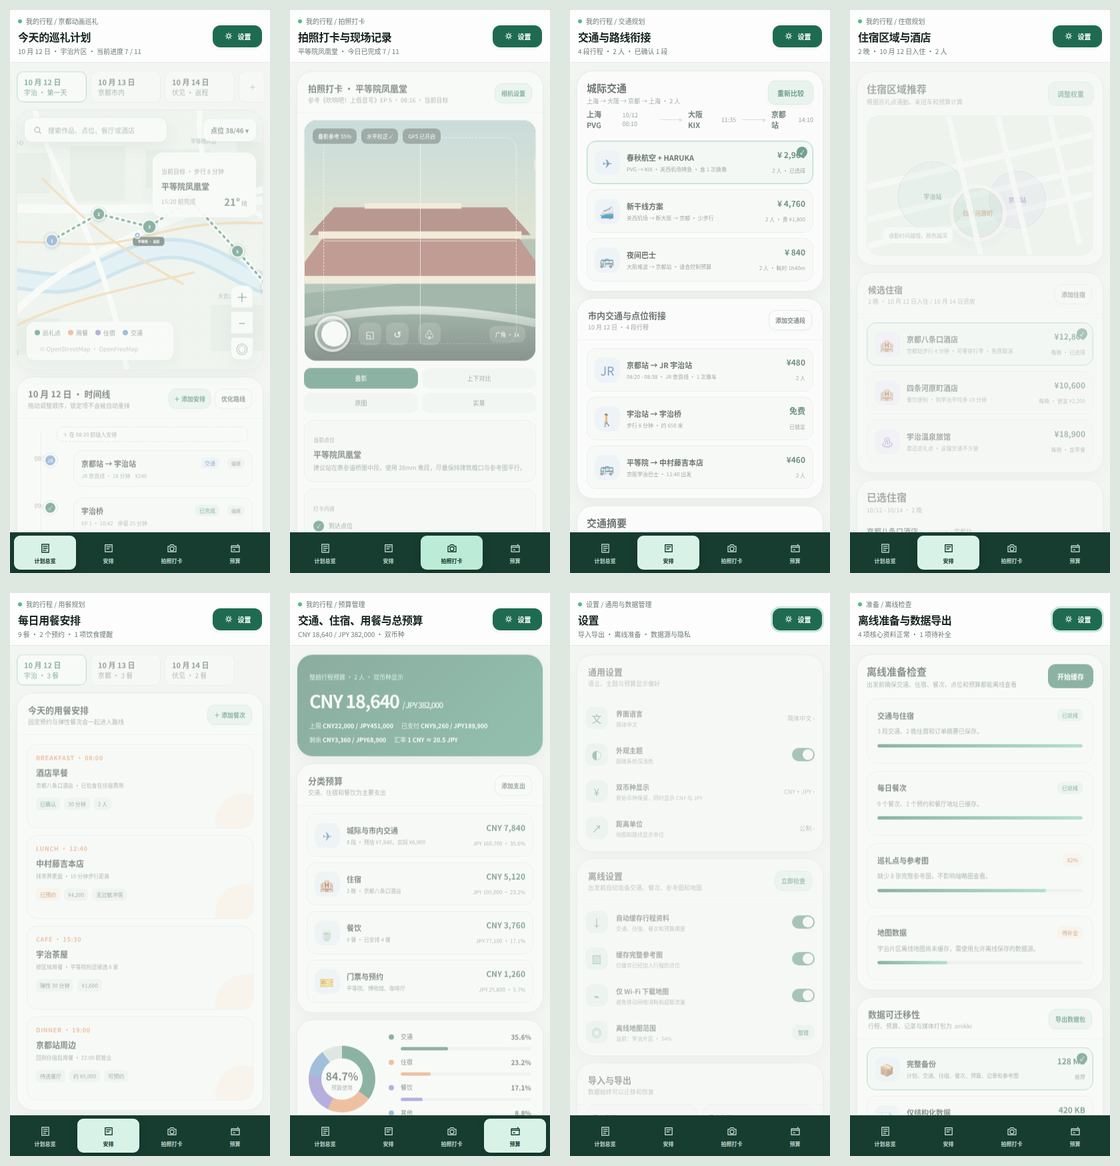
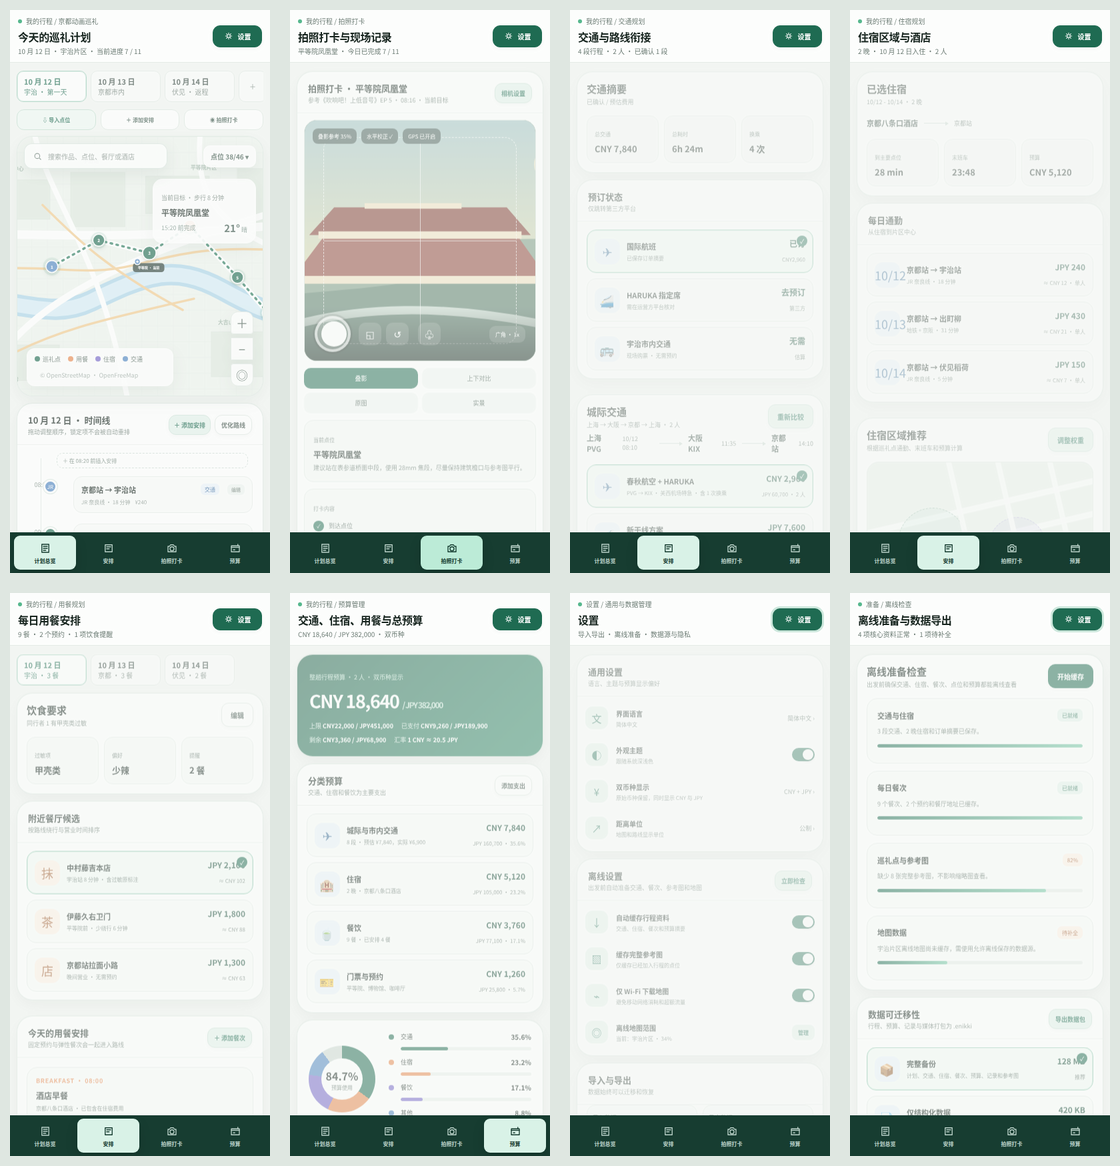
design: align mobile and desktop feature parity

diff --git a/design/enikki-ui.html b/design/enikki-ui.html
@@ -127,6 +127,11 @@ button,input{font:inherit}button{border:0;cursor:pointer}svg{display:block}
 .card-head-actions{display:flex;gap:6px;margin-left:auto}.timeline-insert{position:relative;z-index:3;width:calc(100% - 60px);margin:4px 0 4px 50px;padding:5px 8px;border:1px dashed #cbdad3;border-radius:9px;color:#6f8279;background:rgba(255,255,255,.7);font-size:8px;text-align:left}.timeline-insert:hover{color:var(--green);border-color:#8fc7b1;background:#f2faf6}.event-edit{margin-left:5px;padding:3px 6px;border-radius:6px;color:#61736a;background:#eef3f0;font-size:7px}.event-edit:hover{color:#fff;background:var(--green)}.plan-editor-backdrop{position:fixed;inset:0;z-index:70;display:none;place-items:center;padding:20px;background:rgba(18,37,30,.36);backdrop-filter:blur(5px)}.plan-editor-backdrop.open{display:grid}.plan-editor{width:min(690px,calc(100vw - 40px));max-height:min(760px,calc(100vh - 40px));overflow:auto;border-radius:24px;background:#fff;box-shadow:0 30px 80px rgba(14,35,27,.28)}.plan-editor-head{display:flex;align-items:center;gap:12px;padding:17px 18px;border-bottom:1px solid #e8eeea}.plan-editor-head h3{margin:0;font-size:16px}.plan-editor-head p{margin:3px 0 0;color:var(--muted);font-size:9px}.plan-editor-close{margin-left:auto;width:32px;height:32px;border-radius:10px;color:#62756c;background:#f0f4f2;font-size:17px}.plan-type-grid{display:grid;grid-template-columns:repeat(6,1fr);gap:7px;padding:14px 16px 8px}.plan-type{display:flex;flex-direction:column;align-items:center;gap:6px;padding:10px 5px;border:1px solid #e4ebe7;border-radius:13px;color:#52675d;background:#fafcfb;font-size:8px}.plan-type i{font-size:17px;font-style:normal}.plan-type.active{border-color:#8fc7b1;color:var(--green);background:#edf8f3;box-shadow:inset 0 0 0 1px #d2e9df}.plan-form{display:grid;grid-template-columns:1fr 1fr;gap:11px;padding:12px 16px 18px}.field{display:grid;gap:5px}.field.full{grid-column:1/-1}.field label{color:#42574d;font-size:9px;font-weight:750}.field input,.field select,.field textarea{width:100%;border:1px solid #dce6e1;border-radius:11px;padding:10px;color:var(--ink);background:#fbfcfb;font-size:10px;outline:none}.field input:focus,.field select:focus,.field textarea:focus{border-color:#80bea4;box-shadow:0 0 0 3px #e4f2ec}.field textarea{min-height:68px;resize:vertical}.money-fields{display:grid;grid-template-columns:1fr 1fr;gap:8px}.editor-foot{display:flex;align-items:center;gap:8px;padding:13px 16px;border-top:1px solid #e8eeea;background:#fafcfb}.editor-foot .danger{margin-right:auto;color:#b04e43;background:#fff0ed}.plan-editor-note{padding:0 16px 12px;color:var(--muted);font-size:8px}
 @media(max-width:760px){.plan-editor-backdrop{padding:0;place-items:end center}.plan-editor{width:100%;max-height:88vh;border-radius:24px 24px 0 0}.plan-type-grid{grid-template-columns:repeat(3,1fr)}.plan-form{grid-template-columns:1fr}.field.full{grid-column:auto}.money-fields{grid-template-columns:1fr 1fr}.card-head-actions{display:flex}.card-head-actions .btn:first-child{padding-inline:7px}.timeline-insert{width:calc(100% - 55px);margin-left:45px}.event-edit{display:inline-flex}}
 
+.mobile-plan-actions{display:none}
+@media(max-width:760px){
+.section-grid{display:flex;flex-direction:column}.section-side{order:-1;display:block}.section-side>.card{flex:none!important;margin-bottom:10px}.section-main{order:0;display:block}
+.mobile-plan-actions{display:grid;grid-template-columns:repeat(3,1fr);gap:7px;margin:0 0 9px}.mobile-plan-actions button{display:flex;align-items:center;justify-content:center;gap:5px;padding:9px 5px;border:1px solid #dbe6df;border-radius:11px;color:#3d584d;background:#fff;font-size:8px;font-weight:750}.mobile-plan-actions button:first-child{color:var(--green);border-color:#bfdccd;background:#eff8f4}
+}
 </style>
 </head>
 <body>
@@ -221,6 +226,11 @@ button,input{font:inherit}button{border:0;cursor:pointer}svg{display:block}
           <div class="day-summary">
             <span>完成 7 / 11</span><div class="progress-pill"><span></span></div><span>预计 20:10 结束</span>
           </div>
+        </div>
+        <div class="mobile-plan-actions">
+          <button onclick="toast('打开 Anitabi 点位导入')">⇩ 导入点位</button>
+          <button onclick="openPlanEditor('spot')">＋ 添加安排</button>
+          <button onclick="activateView('checkin')">◉ 拍照打卡</button>
         </div>
         <div class="planner-grid">
           <div class="card map-card">

diff --git a/design/README.md b/design/README.md
@@ -98,6 +98,24 @@ enikki-ui.html?view=offline
 
 ![移动端安排面板](preview-mobile-arrange.png)
 
+## 桌面端与手机端一致性
+
+桌面端使用常驻侧栏，手机端使用四项底栏和顶部设置入口。两端功能等价，只是
+信息结构不同：
+
+| 功能 | 桌面端 | 手机端 |
+| --- | --- | --- |
+| 行程总览 | 侧栏“计划总览” | 底栏“计划” |
+| 交通、住宿、用餐 | 侧栏直接进入 | 底栏“安排”半屏面板 |
+| 拍照打卡 | 侧栏“拍照打卡” | 底栏中央“打卡” |
+| 预算 | 侧栏“预算” | 底栏“预算” |
+| 导入导出 | 顶部或设置页 | 设置页 |
+| 离线设置 | 侧栏“离线准备”或设置页 | 设置页 |
+| 数据源与隐私 | 设置页 | 设置页 |
+
+手机版交通、住宿和用餐页面会把摘要与预订状态前置，避免因单列布局而看起来
+缺少功能。计划总览还提供“导入点位 / 添加安排 / 拍照打卡”快捷操作。
+
 ## 原型范围
 
 - 计划总览：地图、点位、路线、每日时间线、内联编辑和当前目标。
